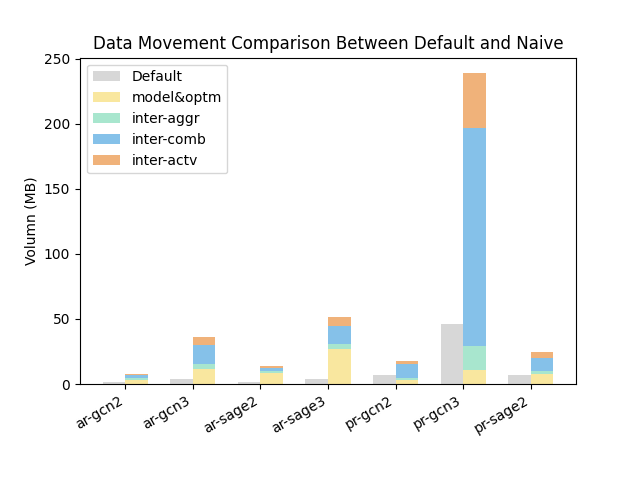
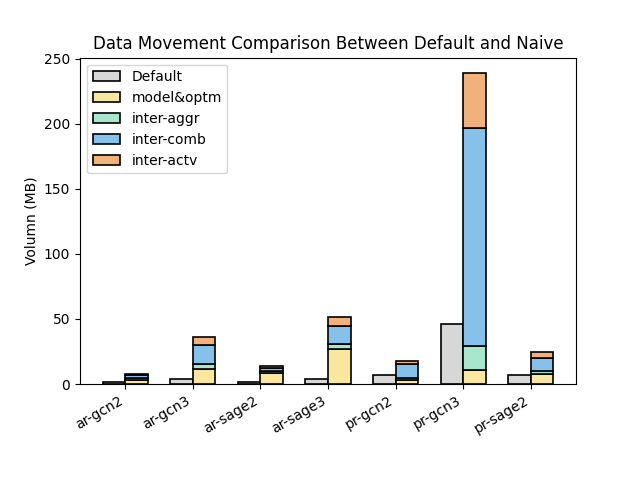
add figures of resut1

diff --git a/simulate/result1/draw/common/loaddata.py b/simulate/result1/draw/common/loaddata.py
@@ -1,0 +1,55 @@
+import os
+import json
+import collections
+
+def load_and_parse_data_bar(filepath, args):
+    # Load data from json file and parse data
+    with open(filepath) as f:
+        data = json.load(f)
+    # sanity check
+    for figname, figitems in data.items():
+        if 'x-labels' in figitems and 'group-data' in figitems:
+            nblks = len(list(figitems['group-data'].values())[0])
+            nxlabels = len(figitems['x-labels'].split(','))
+            ncomprs = len(figitems['group-data'])
+            assert nblks == nxlabels, f'number of nblks {nblks} is not equal to number of nxlabels {nxlabels} in {figname}'
+            assert len(figitems['group-data']) == len(figitems['legends']), f'number of legends or group data error, plz check again in {figname}'
+    # number of figures for rows and cols
+    rows = (len(data) + args.cols - 1) // args.cols
+    print(f'=> rows={rows}, cols={args.cols}')
+    # legend names
+    legend_names = [cname.strip() for cname in figitems['legends']]
+    # block width
+    block_width = ncomprs * args.barwidth
+    
+    return data,(rows, args.cols), (nblks, block_width), (ncomprs, legend_names)
+
+def load_and_parse_data_bar_break(filepath, args):
+    # legend names
+    legends = collections.defaultdict()
+    # Load data from json file and parse data
+    with open(filepath) as f:
+        data = json.load(f)
+    # sanity check
+    for figname, figitems in data.items():
+        if 'x-labels' in figitems and 'group-data' in figitems:
+            # check x-labels
+            nblks = len(list(figitems['group-data'].values())[0][0])
+            nxlabels = len(figitems['x-labels'].split(','))
+            assert nblks == nxlabels, f'number of nblks {nblks} is not equal to number of nxlabels {nxlabels} in {figname}'
+            # check legends
+            assert len(figitems['legends']) == len(figitems['group-data']), f' len of legends should be equal to len of group-data'
+            for j, sublst in enumerate(figitems['legends']):
+                assert len(sublst)==len(figitems['group-data'][f'c{j}']), f'len of legends {j} is not equal to len of group-data c{j}'
+            # legend_names
+            legends[figname] = figitems['legends']
+            
+    # number of figures for rows and cols
+    rows = (len(data) + args.cols - 1) // args.cols
+    print(f'=> rows={rows}, cols={args.cols}')
+    # number of comparisons
+    ncomprs = len(figitems['legends'])
+    # block width
+    block_width = ncomprs * args.barwidth
+    
+    return data,(rows, args.cols), (nblks, block_width), (ncomprs, legends)

diff --git a/simulate/result1/draw/result1/bars_break.py b/simulate/result1/draw/result1/bars_break.py
@@ -23,7 +23,7 @@ data,(rows, cols), (nblks, blkwdth), (ncomprs, legends) = loaddata.load_and_pars
 
 # Create subplots
 fig, axs = plt.subplots(nrows=rows, ncols=args.cols)
-fig.subplots_adjust(hspace=0.5, wspace=0.3)
+fig.subplots_adjust(hspace=0.5, wspace=0.4)
 if rows==args.cols==1:
     axs = [axs]
 else:
@@ -31,6 +31,7 @@ else:
 
 # Define colors
 clrs = colors.get_colors_lst()
+clrs[2], clrs[4] = clrs[4], clrs[2]
 
 # parse data and other metadatas for each subplots from data dict
 for figname, figitems in data.items():
@@ -68,7 +69,7 @@ for figname, figitems in data.items():
         axs[fid].set_ylabel(figitems['y-title'])
         axs[fid].set_title(figitems['fig-title'])
         # show legend
-        axs[fid].legend()
+        # axs[fid].legend(loc='best')
 
 # Save the figure to a file
 plt.savefig(args.outputfile)

diff --git a/simulate/obsv1/draw/obsv1/bars.py b/simulate/obsv1/draw/obsv1/bars.py
@@ -40,7 +40,7 @@ for figname, figitems in data.items():
         xcoor = [i*(blkwdth+1) for i in range(nblks)]
         # draw bars by groups
         for j in range(ncomprs):
-            axs[fid].bar(np.array(xcoor)+args.barwidth*j, grpdata[f'c{j}'], color=clrs[j+3], width=args.barwidth, label=legends[j])
+            axs[fid].bar(np.array(xcoor)+args.barwidth*j, grpdata[f'c{j}'], color=clrs[j+3], width=args.barwidth, label=legends[j], edgecolor='black', linewidth=1.2)
         # set x-labels
         axs[fid].set_xticks(np.array(xcoor)+blkwdth/2 - args.barwidth/2)
         axs[fid].set_xticklabels([xln.strip() for xln in figitems['x-labels'].split(',')])

diff --git a/simulate/result1/draw/common/parse.py b/simulate/result1/draw/common/parse.py
@@ -1,0 +1,12 @@
+import argparse
+
+# Set up command line argument parser
+def parse_cmd():
+    parser = argparse.ArgumentParser()
+    parser.add_argument("--cols", '-c', type=int, default=1, help="number of subplots on each row")
+    parser.add_argument("--inputfile", '-if', type=str, default="bars_data.json", help="name of the file to load data from")
+    parser.add_argument("--outputfile", '-of', type=str, default="figure.png", help="name of the file to save the figure as")
+    parser.add_argument("--barwidth", '-bw', type=int, default=1, help="barwidth")
+
+    args = parser.parse_args()
+    return args

diff --git a/simulate/result1/draw/common/colors.py b/simulate/result1/draw/common/colors.py
@@ -1,0 +1,17 @@
+import os
+import json
+
+cur_dir = os.path.dirname(os.path.abspath(__file__))
+def get_colors_lst():
+    with open(f'{cur_dir}/colors.json') as f:
+        colors_dict = json.load(f)
+    colors = []
+    for name, values in colors_dict.items():
+        colors.append(values)
+    
+    # transpose color_matrix
+    trans_color = []
+    for row in zip(*colors):
+        trans_color.extend(row)
+    
+    return trans_color
